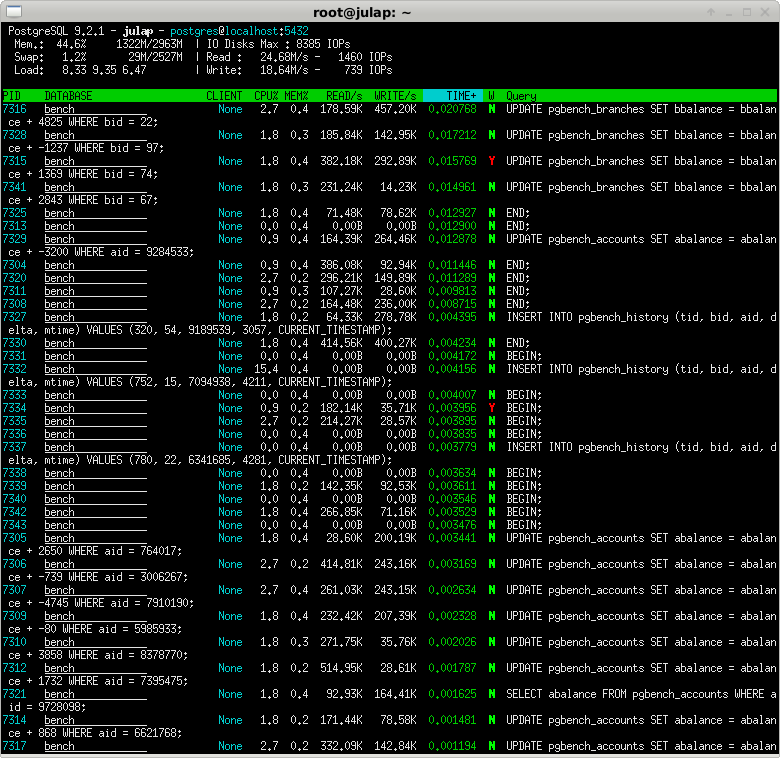
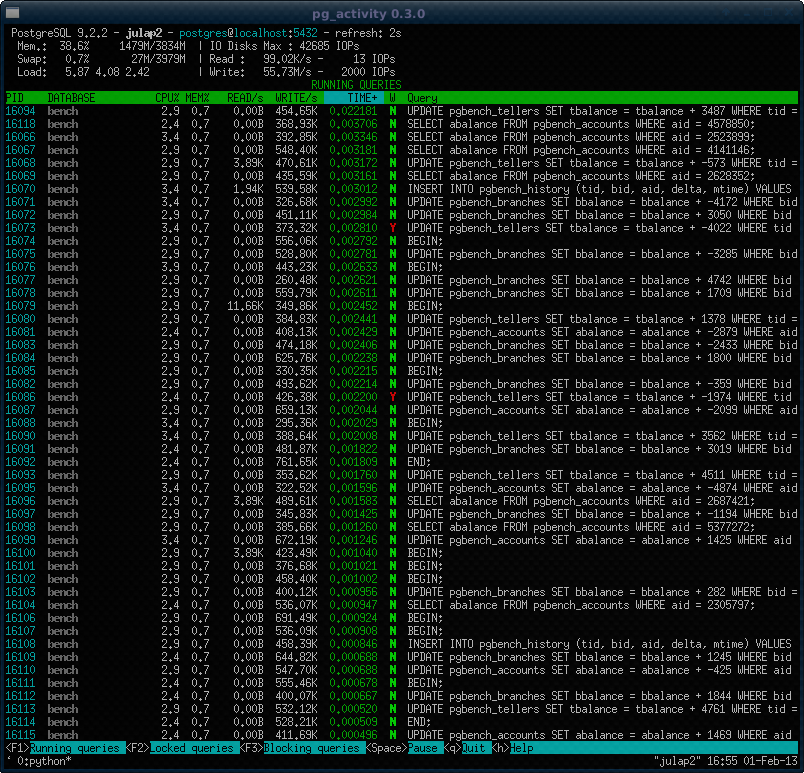
help page + new screen shot + man page updated => release of v0.3.0 is near

diff --git a/README.md b/README.md
@@ -47,9 +47,9 @@ Interactives commands
 	t			Sort by TIME+, descending
 	Space		Pause on/off
 	v			Change queries display mode: full, truncated, indented
-	UP / DOWN	Go to "navigation" mode
+	UP / DOWN	Scroll process list
 	q			Quit
-	+			Increase refresh time. Maximum value : 9s
+	+			Increase refresh time. Maximum value : 3s
 	-			Decrease refesh time. Minimum Value : 1s
 
 Navigation mode
@@ -65,5 +65,3 @@ Screenshot
 ----------
 
 ![pg_activity screenshot](https://raw.github.com/julmon/pg_activity/master/docs/imgs/screenshot.png)
-
-![pg_activity screenshot2](https://raw.github.com/julmon/pg_activity/master/docs/imgs/screenshot2.png)
